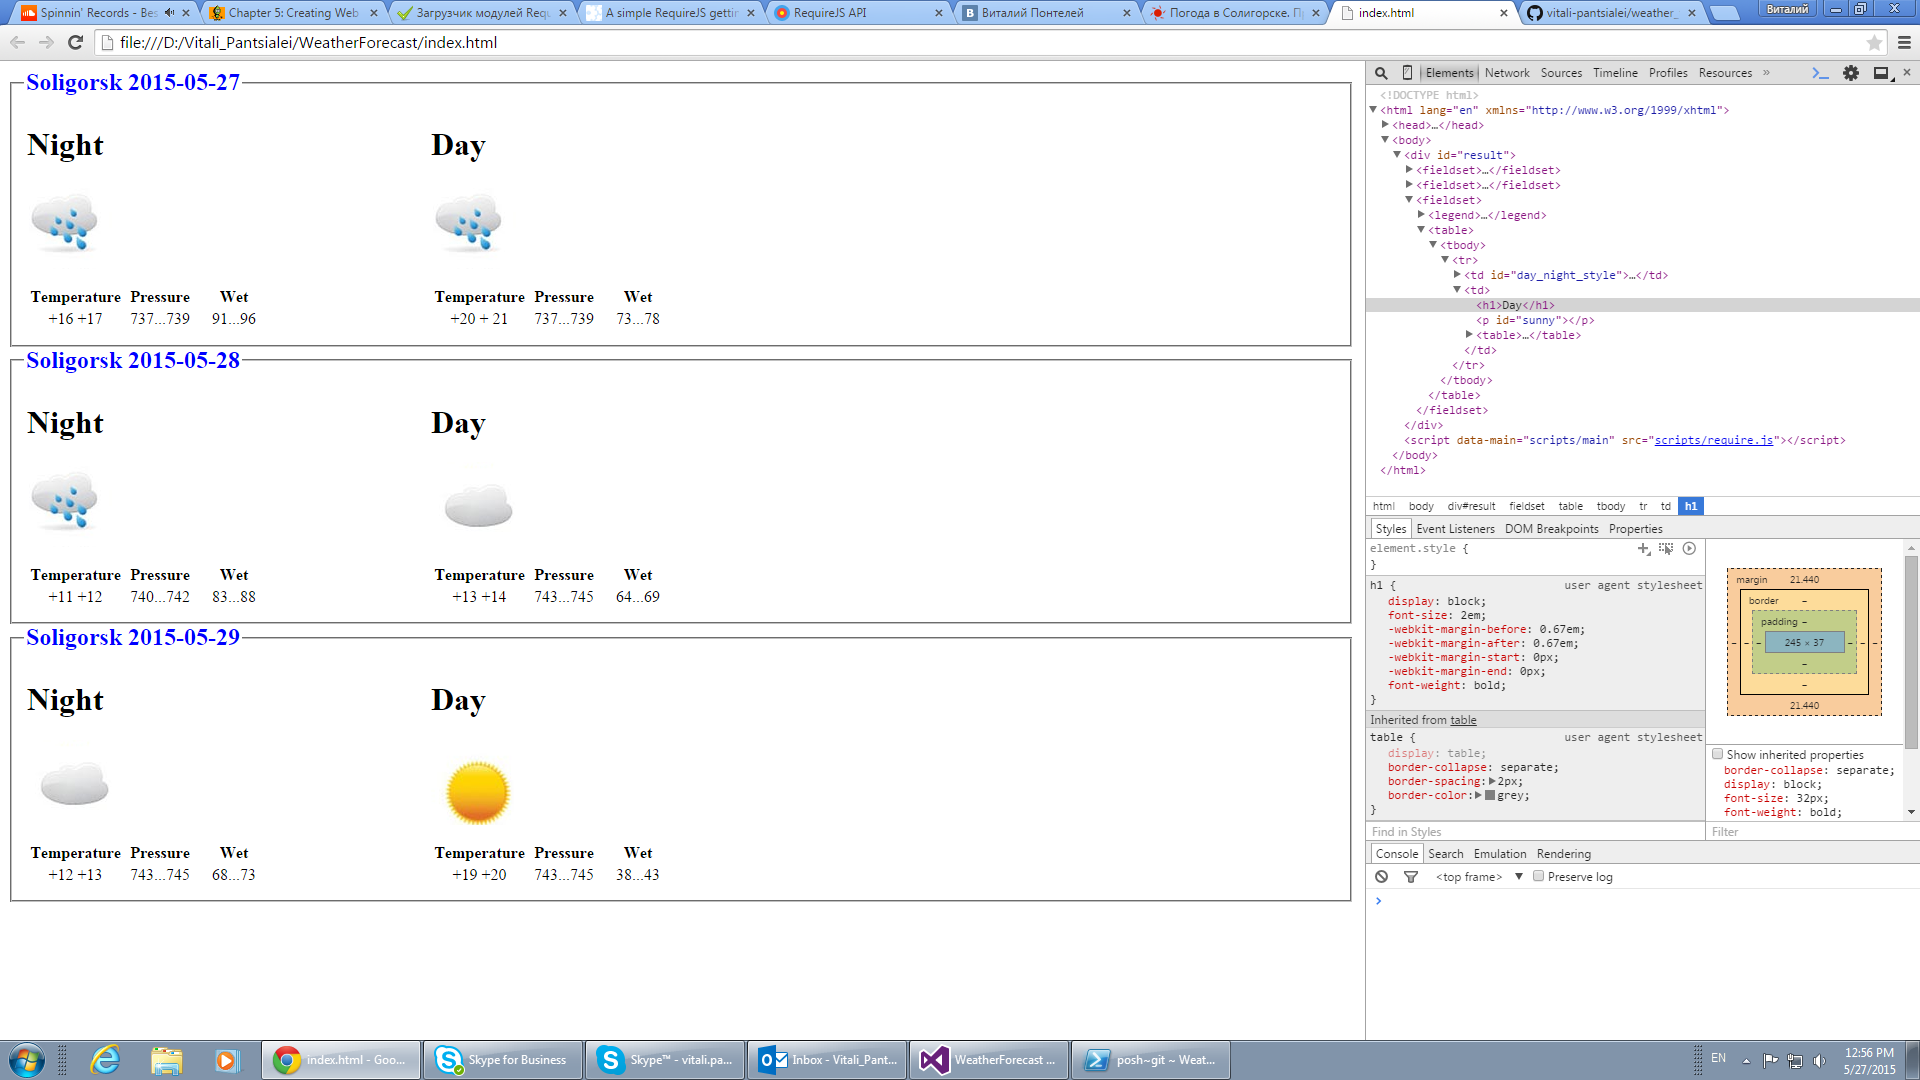
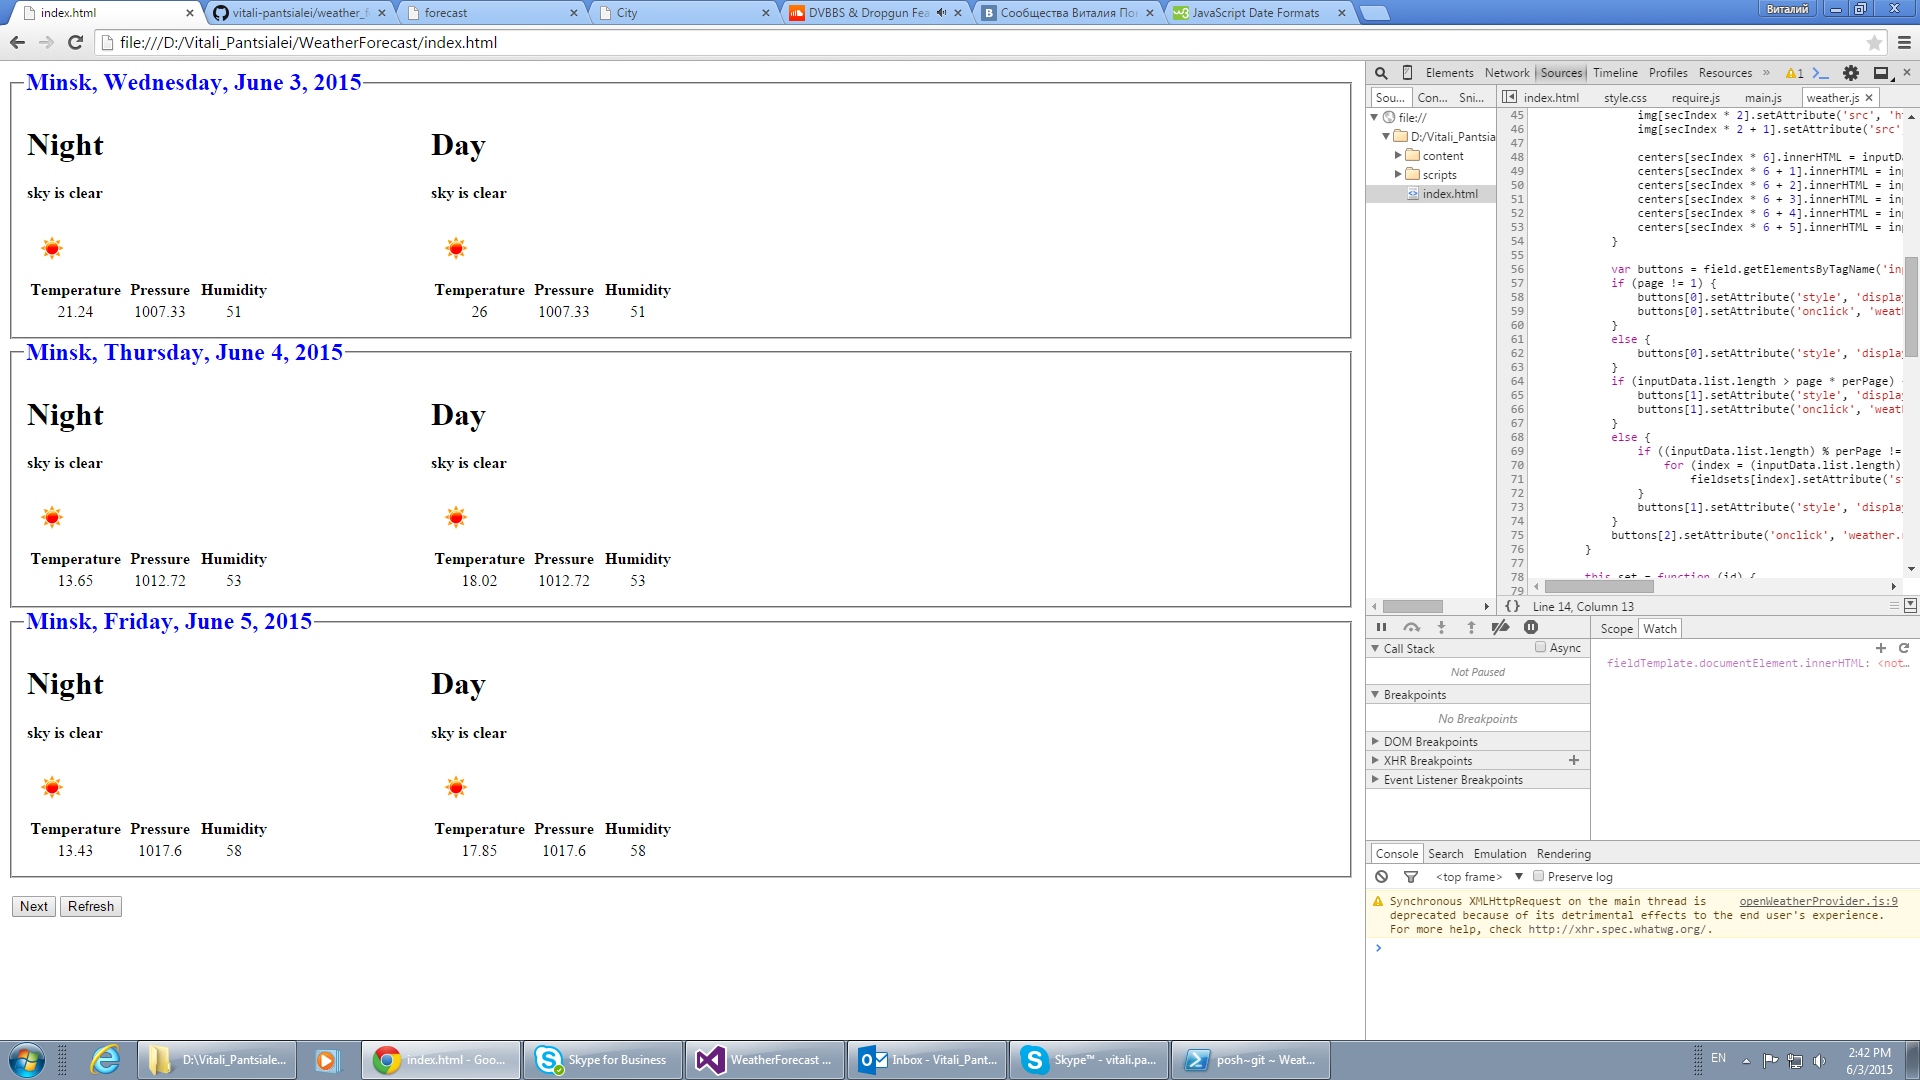
refreshing page (not rewriting)

diff --git a/scripts/weather_widget/weather.js b/scripts/weather_widget/weather.js
@@ -1,7 +1,7 @@
 define([], function () {
     var retModule = function (perPage, dataProvider) {
         var page = 1;
-        var inputData = new dataProvider.getJson();
+        var inputData = dataProvider.getDailyJson();
         var currId;
         var fieldTemplate;
         var buttonsTemplate;
@@ -15,40 +15,45 @@ define([], function () {
             var field = document.getElementById(id);
             field.innerHTML = "";
             var index;
-            var resultHTML = "";
+            for (index = 0; index != perPage; index++)
+                field.innerHTML += fieldTemplate.documentElement.innerHTML;
+            field.innerHTML += buttonsTemplate.documentElement.innerHTML;
+            refresh();
+        }
+
+        var refresh = function () {
+            var field = document.getElementById(currId);
+            var index, secIndex;
+            var fieldsets = field.getElementsByTagName('fieldset');
             var currDate = new Date(today);
+            var img = field.getElementsByTagName('img');
+            var centers = field.getElementsByTagName('center');
+            var legend = field.getElementsByTagName('h2');
+            var descr = field.getElementsByTagName('h4');
 
-            for (index = (page - 1) * perPage; index != (inputData.list.length > page * perPage ? page * perPage : inputData.list.length) ; ++index) {
-                var cpTemp = fieldTemplate;
-                var legend = cpTemp.getElementsByTagName('h2');
-                var descr = cpTemp.getElementsByTagName('h4');
+            for (index = 0; index != perPage; index++)
+                fieldsets[index].setAttribute('style', 'display:block');
 
+            for (index = (page - 1) * perPage, secIndex = 0; index != (inputData.list.length > page * perPage ? page * perPage : inputData.list.length) ; ++index, ++secIndex) {
+                
                 currDate.setDate(today.getDate() + index);
-                legend[0].innerHTML = inputData.city.name + ", " + currDate.toLocaleDateString("en-US", options);
+                legend[secIndex].innerHTML = inputData.city.name + ", " + currDate.toLocaleDateString("en-US", options);
 
-                descr[0].innerHTML = inputData.list[index].weather[0].description;
-                descr[1].innerHTML = inputData.list[index].weather[0].description;
+                descr[secIndex * 2].innerHTML = inputData.list[index].weather[0].description;
+                descr[secIndex * 2 + 1].innerHTML = inputData.list[index].weather[0].description;
 
-                var p1 = cpTemp.getElementsByTagName('p');
-                var img = cpTemp.createElement('p');
-                img.setAttribute('class', 'image-size ' + inputData.list[index].weather[0].main + 'Night');
-                p1[0].innerHTML = img.outerHTML;
-                img = cpTemp.createElement('p');
-                img.setAttribute('class', 'image-size ' + inputData.list[index].weather[0].main + 'Day');
-                p1[2].innerHTML = img.outerHTML;
+                img[secIndex * 2].setAttribute('src', 'http://openweathermap.org/img/w/' + inputData.list[index].weather[0].icon + '.png');
+                img[secIndex * 2 + 1].setAttribute('src', 'http://openweathermap.org/img/w/' + inputData.list[index].weather[0].icon + '.png');
 
-                var centers = cpTemp.getElementsByTagName('center');
-                centers[0].innerHTML = inputData.list[index].temp.night;
-                centers[1].innerHTML = inputData.list[index].pressure;
-                centers[2].innerHTML = inputData.list[index].humidity;
-                centers[3].innerHTML = inputData.list[index].temp.day;
-                centers[4].innerHTML = inputData.list[index].pressure;
-                centers[5].innerHTML = inputData.list[index].humidity;
-
-                field.innerHTML += cpTemp.documentElement.innerHTML;
+                centers[secIndex * 6].innerHTML = inputData.list[index].temp.night;
+                centers[secIndex * 6 + 1].innerHTML = inputData.list[index].pressure;
+                centers[secIndex * 6 + 2].innerHTML = inputData.list[index].humidity;
+                centers[secIndex * 6 + 3].innerHTML = inputData.list[index].temp.day;
+                centers[secIndex * 6 + 4].innerHTML = inputData.list[index].pressure;
+                centers[secIndex * 6 + 5].innerHTML = inputData.list[index].humidity;
             }
 
-            var buttons = buttonsTemplate.getElementsByTagName('input');
+            var buttons = field.getElementsByTagName('input');
             if (page != 1) {
                 buttons[0].setAttribute('style', 'display:block');
                 buttons[0].setAttribute('onclick', 'weather.back()');
@@ -61,26 +66,29 @@ define([], function () {
                 buttons[1].setAttribute('onclick', 'weather.next()');
             }
             else {
+                if ((inputData.list.length) % perPage != 0) {
+                    for (index = (inputData.list.length) % perPage; index != perPage; index++)
+                        fieldsets[index].setAttribute('style', 'display:none');
+                }
                 buttons[1].setAttribute('style', 'display:none');
             }
             buttons[2].setAttribute('onclick', 'weather.refreshData()');
-            field.innerHTML += buttonsTemplate.documentElement.innerHTML;
         }
 
         this.set = function (id) {
             set(id);
         }
         this.refreshData = function () {
-            inputData = dataProvider.getJson();
-            set(currId);
+            inputData = dataProvider.getDailyJson();
+            refresh();
         }
         this.back = function () {
             --page;
-            set(currId);
+            refresh();
         }
         this.next = function () {
             ++page;
-            set(currId);
+            refresh();
         }
 
         fieldTemplate = document.implementation.createDocument('', 'html', null);

diff --git a/scripts/weather_widget/openWeatherProvider.js b/scripts/weather_widget/openWeatherProvider.js
@@ -2,16 +2,8 @@ define([], function () {
     var retModule = function (city, days) {
         var cityName = city;
         var daysDisplay = days;
-        var httpAddress = 'http://api.openweathermap.org/data/2.5/forecast/daily?q=';
-        this.setCity = function (newCity) {
-            cityName = newCity;
-        }
-        this.setDays = function (newDays) {
-            daysDisplay = newDays;
-        }
-        this.getJson = function () {
-            var address = httpAddress + city + '&cnt=' + days + '&units=metric&mode=json';
-
+        var httpAddress = 'http://api.openweathermap.org/data/2.5/forecast';
+        var get = function (address) {
             var xhr = new XMLHttpRequest();
             var answer;
             xhr.open('GET', address, false);
@@ -21,6 +13,20 @@ define([], function () {
             };
             xhr.send();
             return JSON.parse(answer);
+        }
+        this.setCity = function (newCity) {
+            cityName = newCity;
+        }
+        this.setDays = function (newDays) {
+            daysDisplay = newDays;
+        }
+        this.getDailyJson = function () {
+            var address = httpAddress + '/daily?q=' + city + '&cnt=' + days + '&units=metric&mode=json';
+            return get(address);
+        }
+        this.getHoursJson = function () {
+            var address = httpAddress + '?q=' + city + '&units=metric&mode=json';
+            return get(address);
         }
     }
     return retModule;

diff --git a/scripts/weather_widget/content/fieldtemplate.html b/scripts/weather_widget/content/fieldtemplate.html
@@ -1,11 +1,11 @@
 <fieldset>
-    <legend><h2></h2></legend>
+    <legend><h2>some text</h2></legend>
     <table>
         <tr>
             <td class="day_night_style">
                 <h1>Night</h1>
-                <h4></h4>
-                <p></p>
+                <h4>some text 2</h4>
+                <img src="myimg"/>
                 <table>
                     <tr>
                         <th class="info_style">Temperature</th>
@@ -21,8 +21,8 @@
             </td>
             <td>
                 <h1>Day</h1>
-                <h4></h4>
-                <p></p>
+                <h4>some text 2</h4>
+                <img src="myimg" />
                 <table>
                     <tr>
                         <th class="info_style">Temperature</th>
